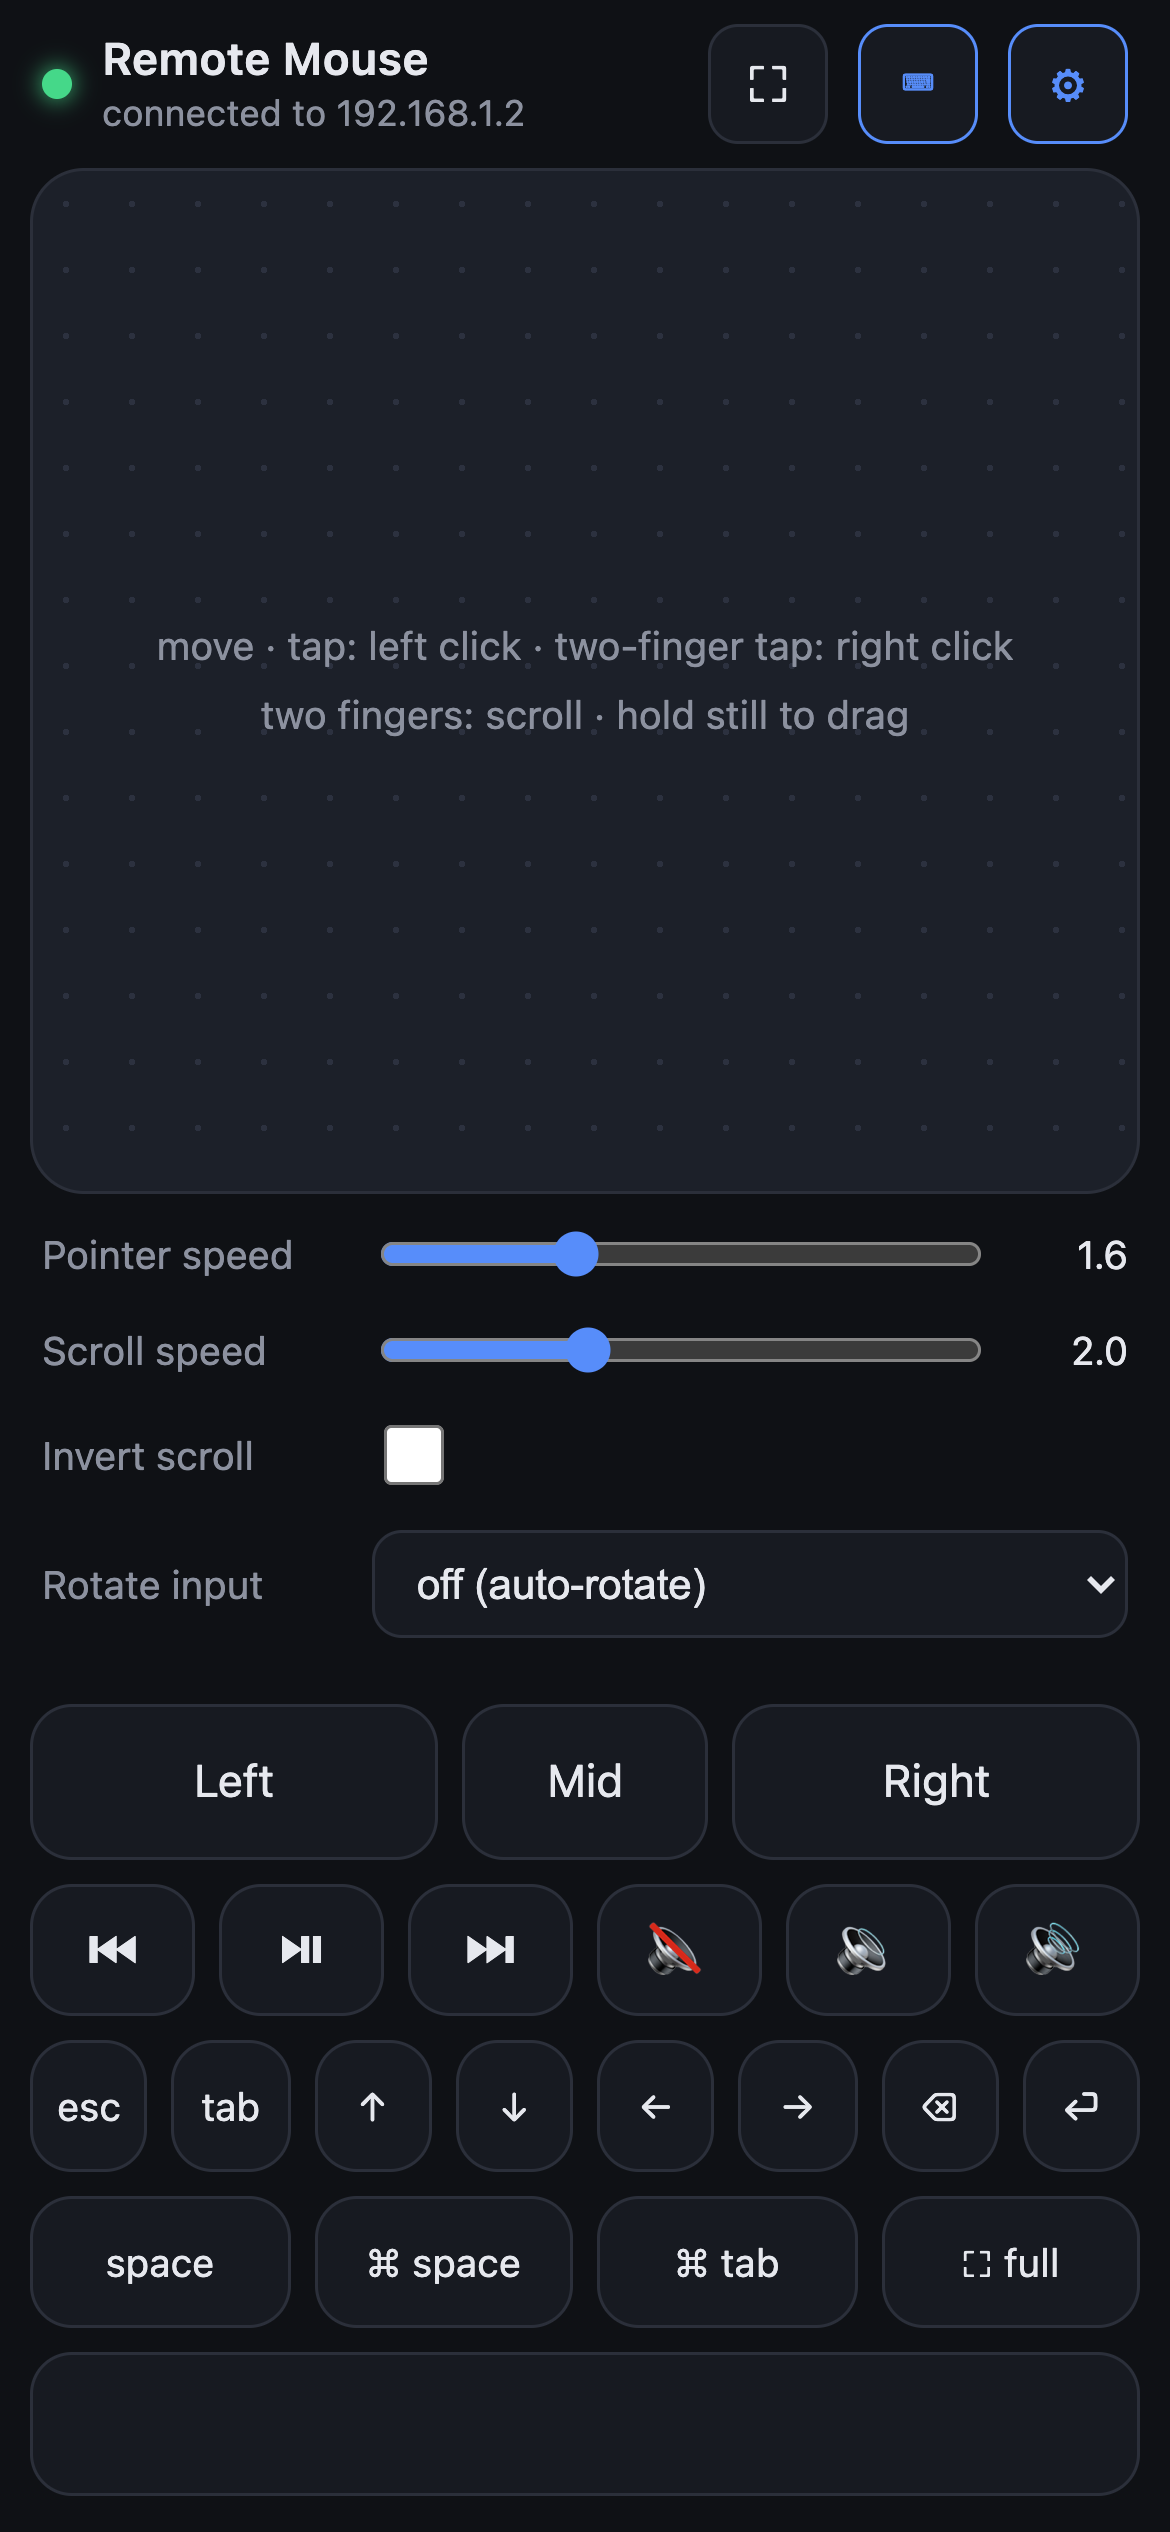
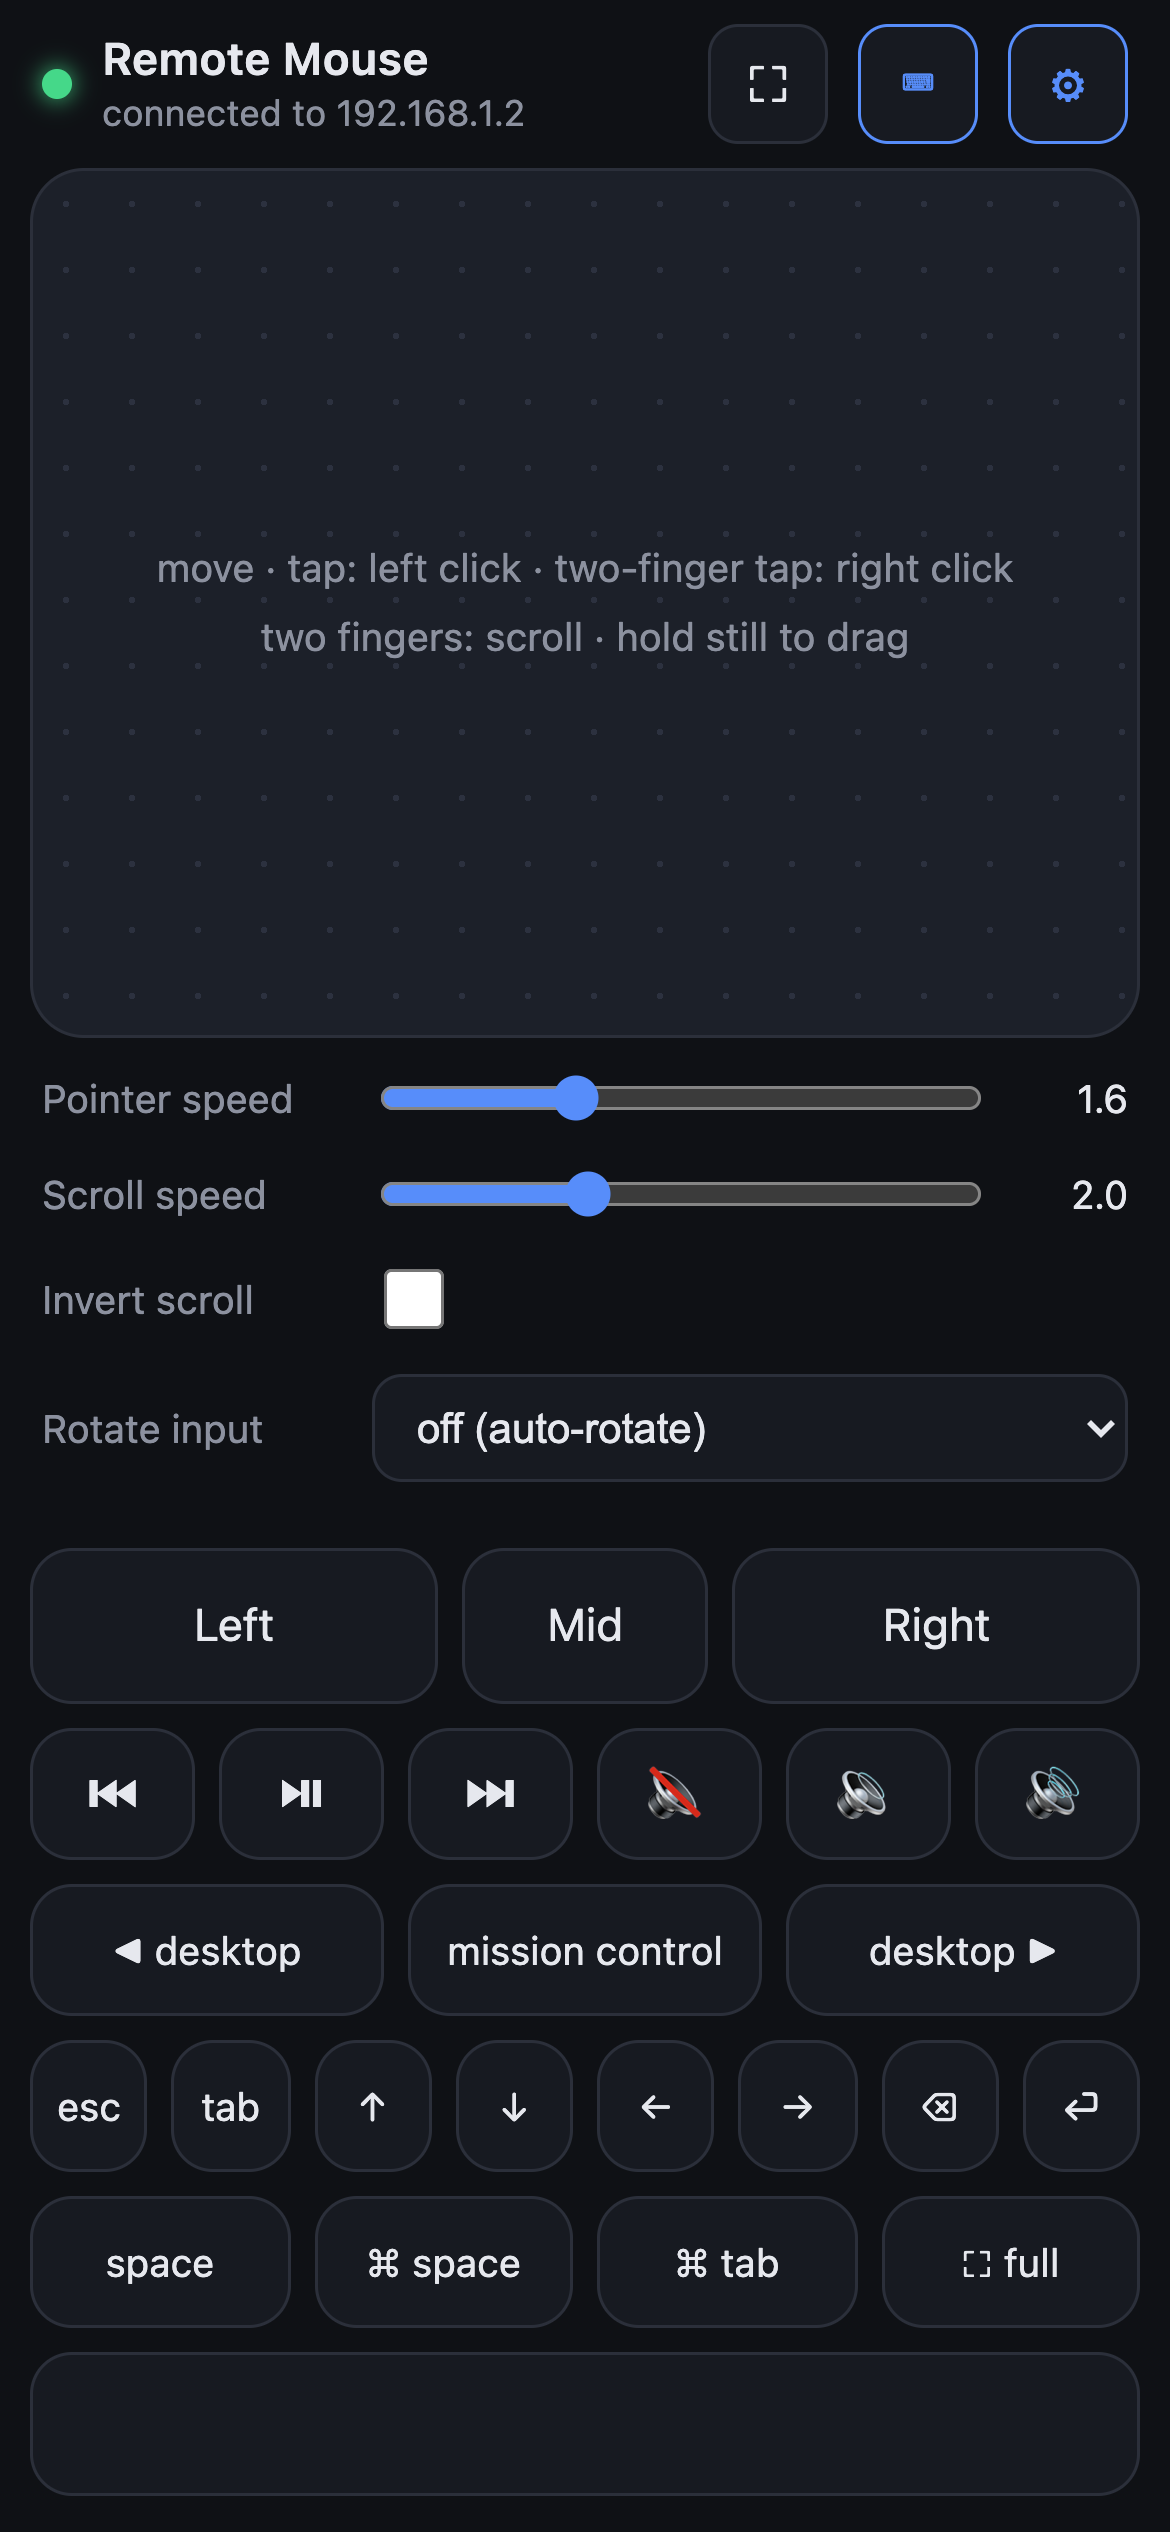
Phone page: buttons for previous desktop, Mission Control, next desktop
Claude-Session: https://claude.ai/code/session_01KdTsCedXCUpk6c1knaU5Fx

diff --git a/index.html b/index.html
@@ -124,6 +124,12 @@
     <div class="btn sm" data-media="volup">🔊</div>
   </div>
 
+  <div class="row desktops">
+    <div class="btn sm key" data-key="left" data-mods="ctrl">◀ desktop</div>
+    <div class="btn sm key" data-key="up" data-mods="ctrl">mission control</div>
+    <div class="btn sm key" data-key="right" data-mods="ctrl">desktop ▶</div>
+  </div>
+
   <div id="kb">
     <div class="row">
       <div class="btn sm key" data-key="escape">esc</div>

diff --git a/README.md b/README.md
@@ -77,6 +77,8 @@ The link contains a secret token. Anyone on your network who has it can control 
 - **⌨ Keyboard**: a text box (every character you type is sent live, backspace works), plus esc, tab, arrows,
   enter, backspace, space, ⌘ space (Spotlight), ⌘ tab (switch apps) and ⌃⌘ F (fullscreen).
 - **Media row**: previous, play/pause, next, mute, volume down, volume up.
+- **Desktops row**: ◀ desktop, mission control, desktop ▶. These send the standard Ctrl+←, Ctrl+↑ and Ctrl+→
+  shortcuts, which are on by default under *System Settings > Keyboard > Keyboard Shortcuts > Mission Control*.
 - **⚙ Settings**: pointer speed, scroll speed, invert scroll, rotate input. Saved on the phone.
 - **Landscape**: turn the phone and the controls move to a column on the right, the pad takes the rest.
   If the phone has rotation lock on, set *Rotate input* to the side you turned it so finger motion still maps correctly.
